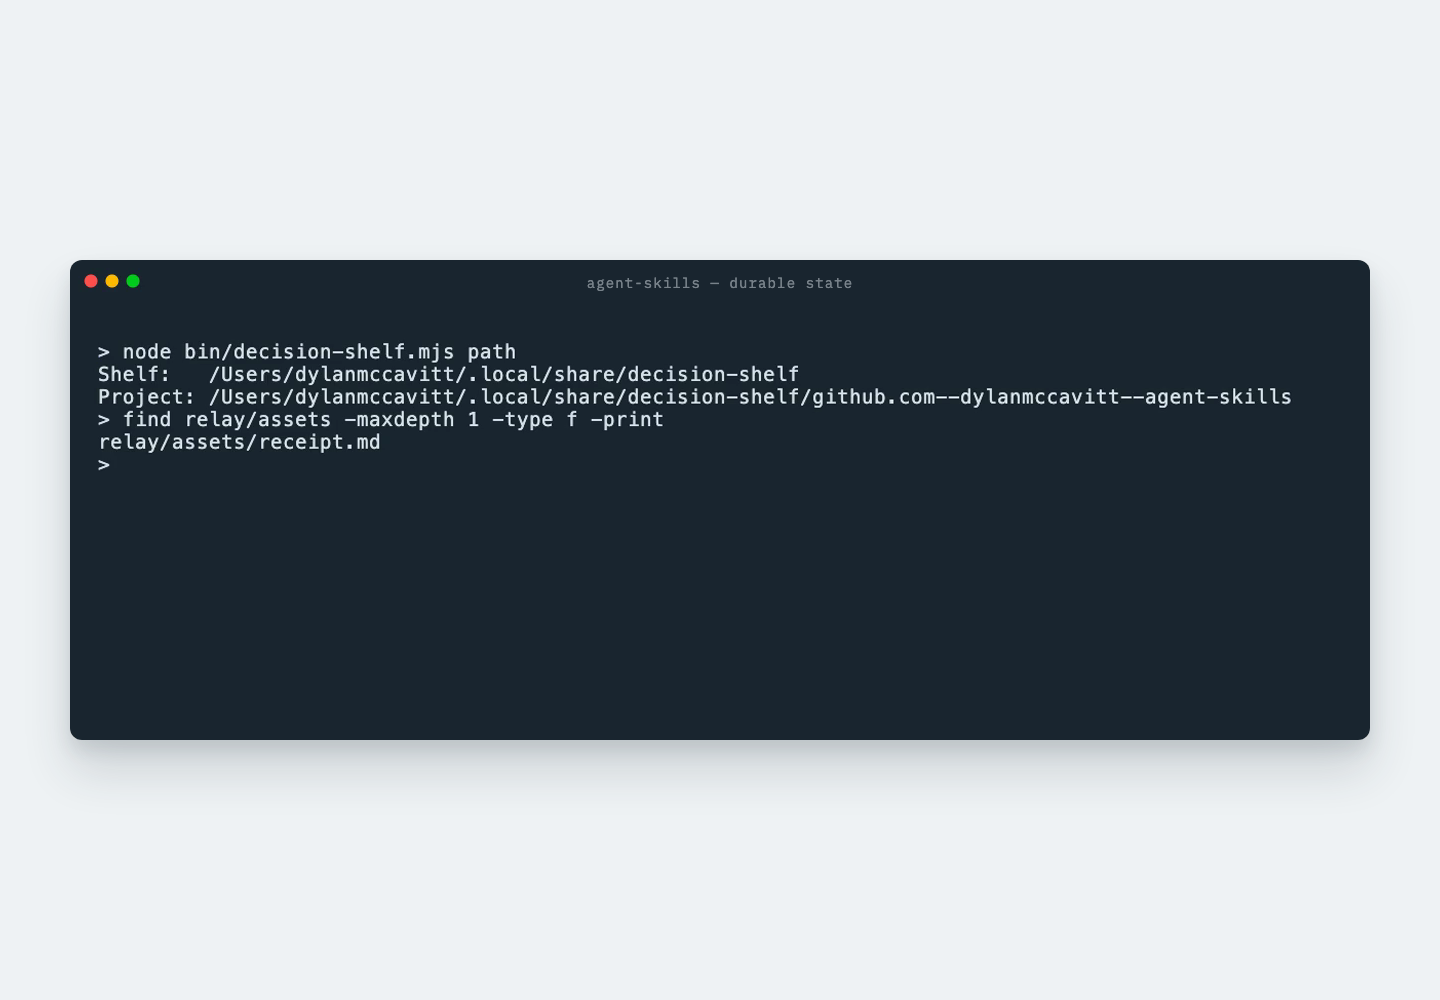
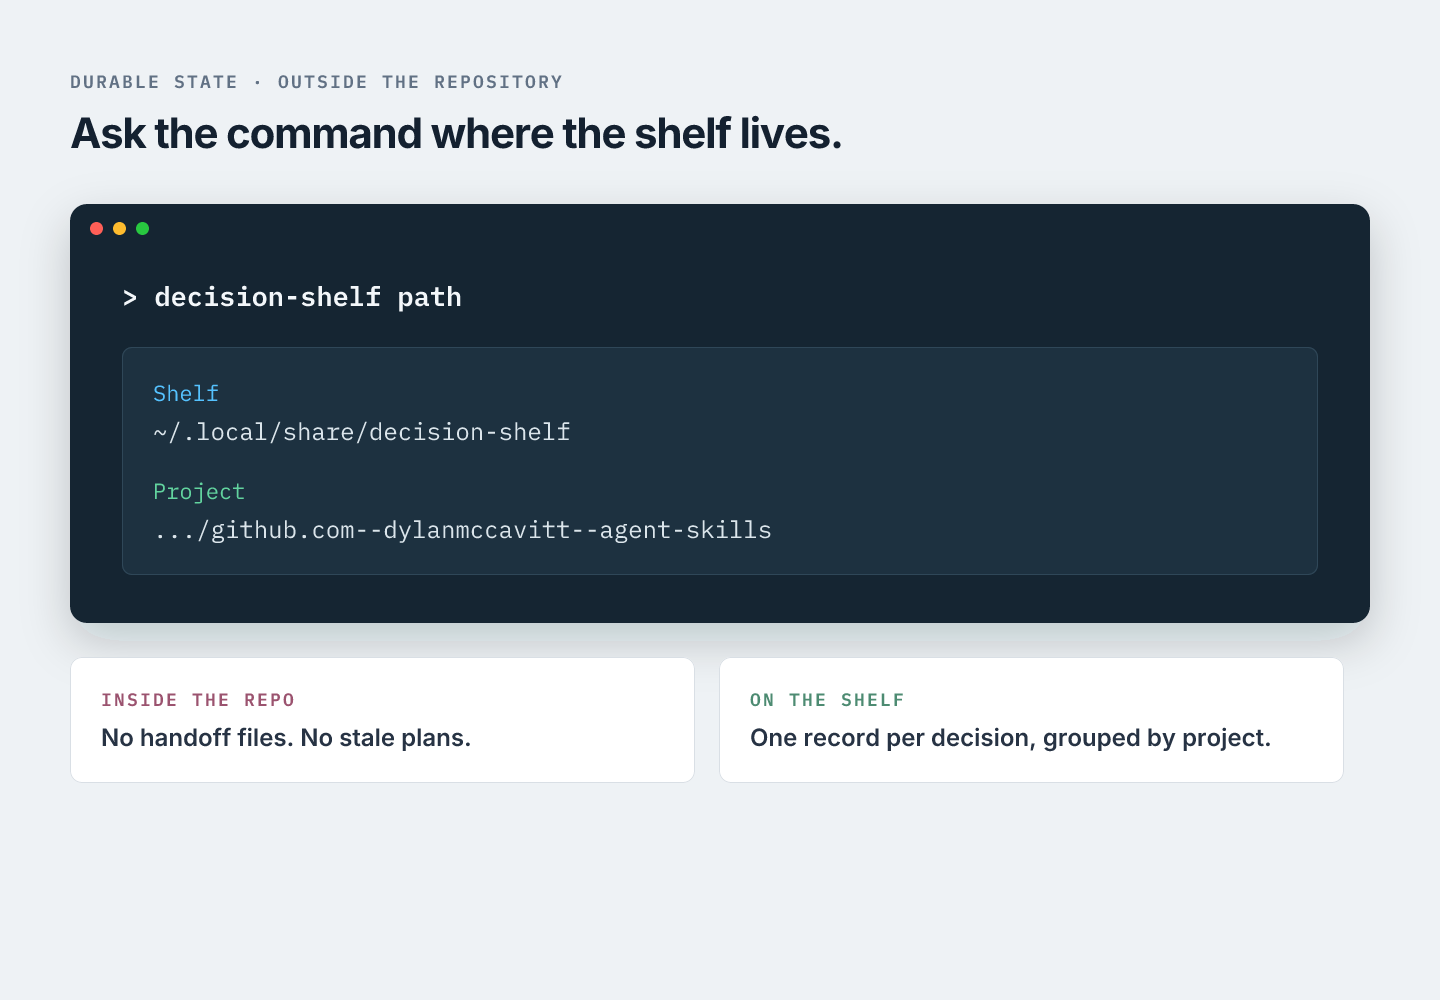
[style]: clarify agent skills gallery

diff --git a/src/data/catalog.ts b/src/data/catalog.ts
@@ -105,11 +105,9 @@ export const CATALOG: Project[] = CatalogProjectSchema.array().parse([
     shots: [
       { kind: 'image', src: `${SHOTS}/agent-skills/decision-shelf.webp`, caption: 'the decision shelf: records that outlive sessions' },
       { kind: 'image', src: `${SHOTS}/agent-skills/delivery.webp`, caption: 'delivery: checks and an evidence-bound receipt' },
-      { kind: 'image', src: `${SHOTS}/agent-skills/skill-compass.png`, caption: 'compass: turns an open direction into a decision' },
-      { kind: 'image', src: `${SHOTS}/agent-skills/skill-relay.png`, caption: 'relay: bounded delivery with one reviewable receipt' },
-      { kind: 'image', src: `${SHOTS}/agent-skills/skill-cairn.png`, caption: 'cairn: durable context without repo clutter' },
-      { kind: 'image', src: `${SHOTS}/agent-skills/cli-commands.png`, caption: 'decision-shelf help: the full command reference' },
-      { kind: 'image', src: `${SHOTS}/agent-skills/storage-locations.png`, caption: 'where decisions and receipts live' },
+      { kind: 'image', src: `${SHOTS}/agent-skills/skills-overview.png`, caption: 'compass, relay, and cairn: one clear job each' },
+      { kind: 'image', src: `${SHOTS}/agent-skills/cli-commands.png`, caption: 'decision-shelf help: commands grouped by purpose' },
+      { kind: 'image', src: `${SHOTS}/agent-skills/storage-locations.png`, caption: 'decision-shelf path: durable state outside the repo' },
     ],
   },
   {
